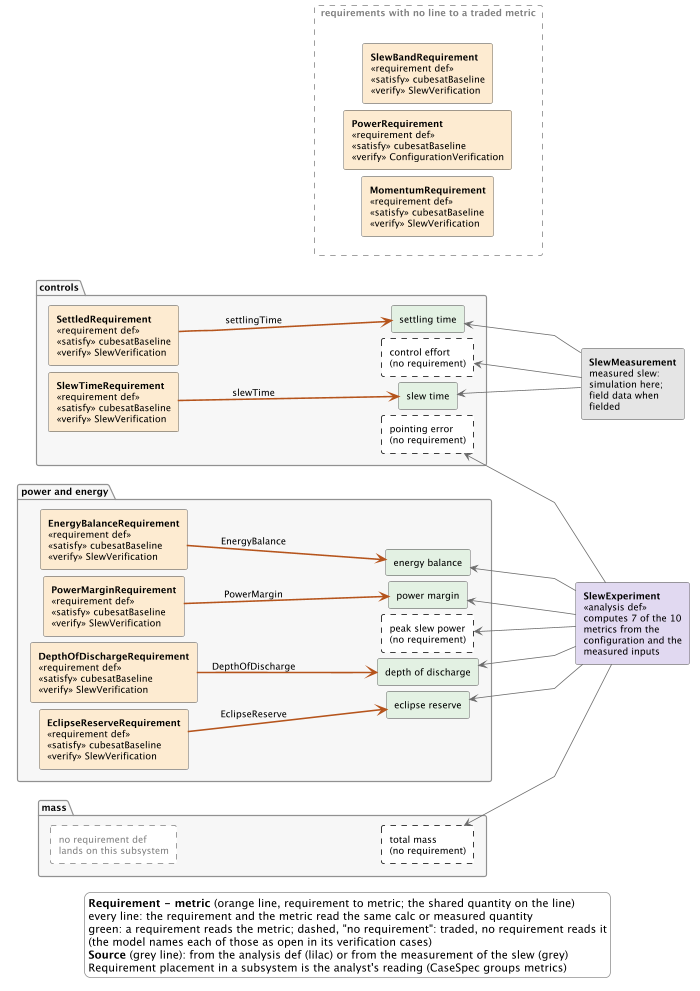
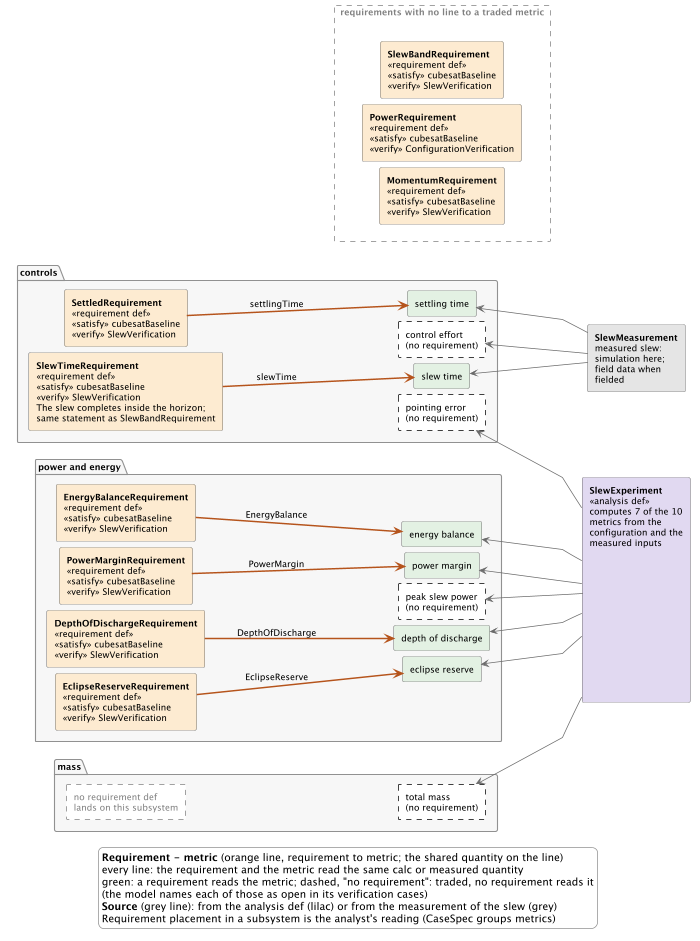
WP22 round 3: analysis box tall enough for separate source lines (R2-2, R2-1 shortened), same-statement note in the requirement box from the model's doc (R2-6); round 3 reviewer record, stopping verdict, gate comparison skeleton

diff --git a/docs/superpowers/notes/spike-sysml-diagrams/project.py b/docs/superpowers/notes/spike-sysml-diagrams/project.py
@@ -19,6 +19,7 @@ from __future__ import annotations
 import argparse
 import json
 import pathlib
+import re
 import sys
 import warnings
 
@@ -36,6 +37,9 @@ ASSEMBLY_LINETYPE = (
     "polyline"  # skinparam linetype: ortho | polyline (default splines)
 )
 BEHAVIOUR_LINETYPE = "polyline"
+# layout control: blank lines in the analysis box, so that it is tall enough to meet every metric it feeds
+# with its own, separate line (round 3: two lines met at one point; the long diagonals shorten)
+ANALYSIS_BOX_PAD = 14
 SKIN = """skinparam shadowing false
 skinparam defaultFontName SansSerif
 skinparam defaultFontSize 12
@@ -337,7 +341,9 @@ def assembly(m, byid, P):
         and p.get("owner") == P
         and short(p.get("type", "")) == "GainBox"
     ]
-    out.append("  Gains Kp and Kd: one range per dataset (baseline, aggressive)")
+    out.append(
+        "  Gains Kp and Kd: one range per dataset (baseline, aggressive)"
+    )
     for g in ("Kp", "Kd"):
         spans = {
             b: f"{gb(b, g + 'Min')} .. {gb(b, g + 'Max')}"
@@ -592,6 +598,29 @@ def behavioural(m, byid, P):
                 f"{name!r} is traded with no requirement and no verification case doc says so"
             )
 
+    # a requirement whose doc says it is "the same statement as the <other> requirement" says so in its box
+    # (the picture then carries what the caption would otherwise): the first sentence of the doc, then the twin
+    def same_as(r):
+        d = doc_text(byid, r).replace("-", " ").removeprefix("doc ")
+        k = d.find("same statement as the ")
+        if k < 0:
+            return None
+        tail = d[k + len("same statement as the ") :].lower()
+        twin = next(
+            (
+                short(o)
+                for o in reqs
+                if o != r
+                and " ".join(
+                    re.findall(r"[A-Z][a-z]*", short(o))
+                ).lower()
+                in tail
+            ),
+            None,
+        )
+        first = d.split(":")[0].split(". ")[0].strip().rstrip(".")
+        return first, twin
+
     # --- PlantUML ------------------------------------------------------------------------------
     nid = lambda s: (
         "x" + "".join(ch for ch in s.title() if ch.isalnum())
@@ -647,8 +676,12 @@ def behavioural(m, byid, P):
             ver = (
                 ", ".join(sorted(verified_by[r])) or "none in the model"
             )
+            sa = same_as(r)
+            extra = (
+                f"\\n{sa[0]};\\nsame statement as {sa[1]}" if sa else ""
+            )
             return (
-                f'rectangle "**{short(r)}**\\n<<requirement def>>\\n<<satisfy>> {sat}\\n<<verify>> {ver}" '
+                f'rectangle "**{short(r)}**\\n<<requirement def>>\\n<<satisfy>> {sat}\\n<<verify>> {ver}{extra}" '
                 f"as {nid(short(r))} {REQ_COLOUR}"
             )
 
@@ -696,8 +729,9 @@ def behavioural(m, byid, P):
     out.append(f"xNoLine -[hidden]right-> {nid(smets_last)}")
     out.append("")
     n_analysis = sum(v == "analysis" for v in origin.values())
+    pad = "\\n" * ANALYSIS_BOX_PAD
     out.append(
-        f'rectangle "**SlewExperiment**\\n<<analysis def>>\\ncomputes {n_analysis} of the {len(metrics)}\\nmetrics from the\\nconfiguration and the\\nmeasured inputs" as xAnalysis {ANALYSIS_COLOUR}'
+        f'rectangle "**SlewExperiment**\\n<<analysis def>>\\ncomputes {n_analysis} of the {len(metrics)}\\nmetrics from the\\nconfiguration and the\\nmeasured inputs{pad}" as xAnalysis {ANALYSIS_COLOUR}'
     )
     out.append(
         f'rectangle "**SlewMeasurement**\\nmeasured slew:\\nsimulation here;\\nfield data when\\nfielded" as xMeasure {MEASURE_COLOUR}'

diff --git a/work-packages/WP22-review.md b/work-packages/WP22-review.md
@@ -119,3 +119,55 @@ Both traced all ten metrics to a requirement or an explicit "(no requirement)" a
 
 Result: round 2 does not end the loop. The last round must find nothing that changes a view; R2-1, R2-2 and R2-6
 would change a view. A round 3 is needed (or the supervisor's call that R2-1 is good enough).
+
+## Round 3 (2026-11-09)
+
+**Model change.** None (`cubesat_r1.sysml`, the ledger and every output unchanged; the ledger `verify` reports 19
+entries, 0 drifts; no new entry is needed because no model file or output changed).
+
+**Views (projection script, layout parameters and model-derived text only; no hand-edited output).**
+R2-2: a layout control `ANALYSIS_BOX_PAD` (blank lines in the analysis box) makes the box tall enough that each
+metric it feeds gets its own line; the lines to depth of discharge and eclipse reserve no longer meet at one point.
+R2-1: the same control shortens the long diagonals (the box now spans from the power frame to the mass frame);
+rank, hidden links and ordering were already used in round 2 and were not enough alone. R2-6: a requirement whose
+`doc` says it is "the same statement as the <other> requirement" now says so in its own box, with the doc's first
+sentence ("The slew completes inside the horizon; same statement as SlewBandRequirement"), derived from the model's
+doc text. The assembly view is byte-identical to round 2. Checks: ruff on the changed test and ledger files clean
+(`ruff format` applied to `project.py`); `tests/test_system_model_v2_r1.py`, `test_model_checking_v2.py`,
+`test_system_model_v2.py`, `test_cubesat_model.py`: 132 passed with `REQUIRE_OPENSYSML=1` (equivalence max rel diff 1.8e-16).
+
+### Reviewers (two new fresh contexts, Sonnet, opened the PNGs; persona and depth from `docs/superpowers/notes/reader-grid.md`: P1 accountable decision maker at L-B skim; P3 modeller at L-C careful; each image alone, then with its caption; the caption no longer carries the SlewTime sentence)
+
+| # | Finding | Severity | Disposition |
+|---|---|---|---|
+| R3-1 | R2-2 gone: no overlapping lines seen by either reviewer | | fixed |
+| R3-2 | Long grey arrows to pointing error and total mass remain visible diagonals; P3 could confirm the pointing-error source only by counting 3+7=10 (one grazes SlewMeasurement) | hinders (both) | partly fixed (shorter, none cross another frame's boxes); residual accepted for this package: a per-frame source node would repeat the analysis box and misstate "one analysis"; a reader can follow every line |
+| R3-3 | "same statement as SlewBandRequirement" is now in the picture, but SlewBandRequirement sits in the dashed top group with no connector | hinders (both) | open, one candidate for a round 4: a dashed "same statement" link drawn from the doc relation |
+| R3-4 | Top dashed group far from everything; why PowerRequirement reads no traded metric | hinders | open; caption carries it (the requirement reads inputs of the analysis, not a metric) |
+| R3-5 | No values anywhere; a decision maker reads a coverage map, not a result (P1: blocks) | blocks (P1 only) | out of scope: values are WP22b; a title naming the figure as a coverage map is a presentation-side wording candidate |
+| R3-6 | Figure A legend: "baseline vs aggressive datasets", Kp/Kd undefined, "W*h", SysML stereotypes | hinders | open (A-3, R2-8 family); the presentation side defines these in the caption |
+| R3-7 | Box says "7 of the 10"; P1 counted 11 boxes | hinders (P1) | misread: the picture has 10 metric boxes plus a placeholder; P3 reconciled 3+7=10. Accepted; the placeholder in the mass frame is the likely cause |
+| R3-8 | Stereotype lines repeat in every requirement box; camelCase labels vs lower-case metric names; legend dense | polish | accepted (labels are model identifiers) |
+
+### Stopping verdict against the scope's good enough
+
+R-1 to R-11 hold for the six G2 metrics; two full rounds ran; the four uncovered metrics are named in the model
+and here with the value each needs; the trace table is above. The strict clause ("the last round found nothing
+that changes a view") is not met: R3-3 would change a view. Nothing found in round 3 blocks within the scope
+(the one "blocks", R3-5, is the WP22b values question). The PM's recommendation: stop the loop; R3-3 is a small
+round 4 only if the supervisor wants it. R2-1 is recorded as accepted in part, with the reason in R3-2.
+
+## Gate comparison report (skeleton for R-14; the swap is NOT done)
+
+Old model `examples/adcs/model_v2/cubesat.sysml` (what the committed data and the paper cite) against the new one
+`cubesat_r1.sysml`. To be completed at the gate, in the shape of WP16's data gate.
+
+| Question | Answer to fill at the gate | Evidence |
+|---|---|---|
+| Is the old file byte-unchanged? | | `git diff origin/dev...HEAD -- examples/adcs/model_v2/cubesat.sysml` empty; hash equals the ledger's last old entry |
+| What is identical? | calc defs, the analysis def, ranges, every number of the old model; assembly view text | equivalence test; assembly diff empty |
+| What is added? | `SlewMeasurement.slewTime`, `peakTorque`, `controlEffort` (recorded measurements); `SlewTimeRequirement`, `EclipseReserveRequirement`, `PowerMarginRequirement`, `EnergyBalanceRequirement`; `DepthOfDischargeRequirement` restated; `satisfy` and `verify` for each; docs naming the four open metrics; the two views marked | model diff |
+| Are the outputs equal? | | `v2-primary-r1@2`, `v2-baseline-r1@2` output hashes equal `v2-primary@2`, `v2-baseline@2`; flags and oracle to < 1e-9 |
+| Toolkit gates on both files | | check, lint, `verify --solve` exit codes |
+| What does the swap change for paper and docs? | the model file they cite and the figures | WP22d list |
+| Gate decision | | quoted verbatim in `WP22-decisions.md` |
